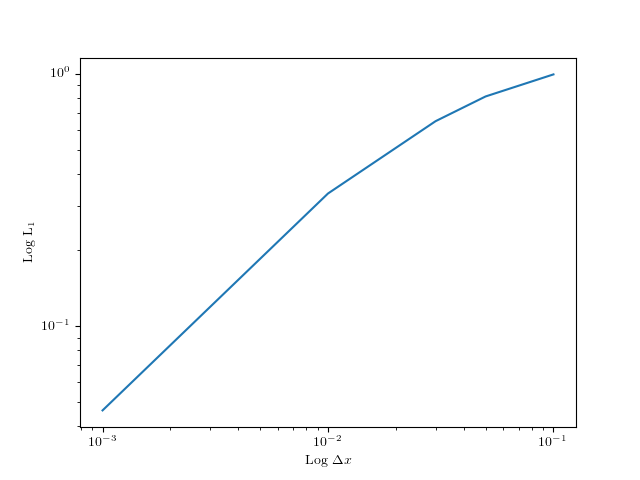
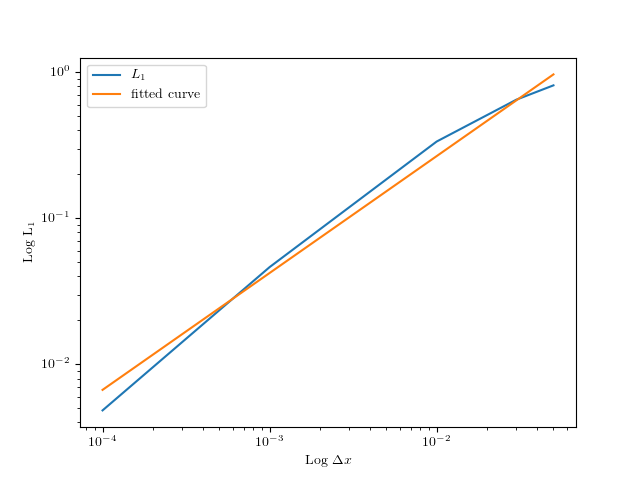
made l1plots

diff --git a/l1plot.py b/l1plot.py
@@ -1,4 +1,6 @@
 import pylab
+import scipy
+from scipy.optimize import curve_fit
 import matplotlib.pyplot as plt
 from matplotlib import rc
 rc('font',**{'family':'sans-serif','sans-serif':['Helvetica']})
@@ -9,22 +11,33 @@ plt.rc('text', usetex=True)
 plt.rc('font', family='serif')
 
 # data
-dx = [0.1, 0.05, 0.03, 0.01, 0.001]
-ftbs = [0.993, 0.812, 0.648, 0.335, 0.0463]
-lw = [0.988, 0.592, 0.360, 0.0388, 0.00480]
+dx = [0.05, 0.03, 0.01, 0.001, 0.0001]
+ftbs = [0.812, 0.648, 0.335, 0.0463, 0.00484]
+lw = [0.592, 0.360, 0.0388, 0.00480, 0.000505]
 
-pylab.plot(dx, ftbs)
+def f(x, A, n):
+    return A*x**n
+
+ftbs_fit = [f(i, 10.6, 0.8) for i in dx]
+
+pylab.plot(dx, ftbs, label = r'$L_1$')
+pylab.plot(dx, ftbs_fit, label = 'fitted curve')
 pylab.xscale('log')
 pylab.xlabel('Log $\Delta x$')
 pylab.yscale('log')
 pylab.ylabel(r'Log $\rm{L}_1$')
+pylab.legend()
 pylab.savefig('pics/l1norm_ftbs')
 pylab.show()
 
-pylab.plot(dx, lw)
+lw_fit = [f(i, 19.034, 1.2) for i in dx]
+
+pylab.plot(dx, lw, label = r'$L_1$')
+pylab.plot(dx, lw_fit, label = 'fitted curve')
 pylab.xscale('log')
 pylab.xlabel('Log $\Delta x$')
 pylab.yscale('log')
 pylab.ylabel(r'Log $\rm{L}_1$')
+pylab.legend()
 pylab.savefig('pics/l1norm_lw')
 pylab.show()
